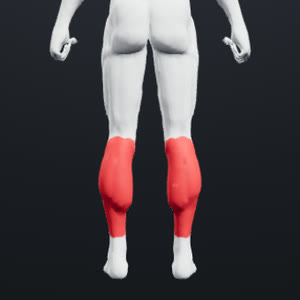
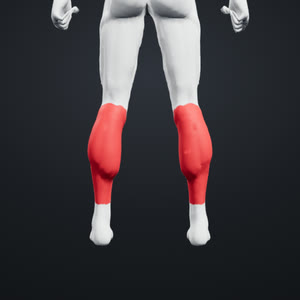
Un solo grupo para la cara interna del muslo (Aductores); abducción pasa a Glúteos. Imágenes 3D de los grupos actualizadas

Changed region(s): [[0.27, 0.0, 0.72, 0.93], [0.15, 0.0, 0.27, 0.21], [0.72, 0.0, 0.84, 0.21]]

diff --git a/Sources/ExerciseSeed.swift b/Sources/ExerciseSeed.swift
@@ -619,8 +619,8 @@ enum ExerciseSeed {
         ("Puente de glúteos con barra", .glutes, .barbell, .weightReps, .hipThrust),
         ("Patada de glúteo en polea", .glutes, .cable, .weightReps, .gluteKickback),
         ("Patada de glúteo en máquina", .glutes, .machine, .weightReps, .gluteKickback),
-        ("Abducción en máquina", .abductors, .machine, .weightReps, .abduction),
-        ("Abducción con banda", .abductors, .band, .repsOnly, .abduction),
+        ("Abducción en máquina", .glutes, .machine, .weightReps, .abduction),
+        ("Abducción con banda", .glutes, .band, .repsOnly, .abduction),
         ("Aducción en máquina", .adductors, .machine, .weightReps, .abduction),
         ("Pull-through en polea", .glutes, .cable, .weightReps, .swing),
         ("Frog pump", .glutes, .bodyweight, .repsOnly, .hipThrust),

diff --git a/Sources/MuscleBrowser.swift b/Sources/MuscleBrowser.swift
@@ -7,7 +7,7 @@ extension MuscleGroup {
     /// Orden en el que se muestran los grupos.
     static let browseOrder: [MuscleGroup] = [.chest, .shoulders, .back, .lats, .upperBack, .lowerBack, .traps,
                                               .biceps, .triceps, .forearms, .core, .obliques,
-                                              .quads, .hamstrings, .glutes, .abductors, .adductors, .calves,
+                                              .quads, .hamstrings, .glutes, .adductors, .calves,
                                               .neck, .fullBody, .cardio]
 
     /// Músculos que incluye este grupo al explorar (Espalda reúne todas sus partes).
